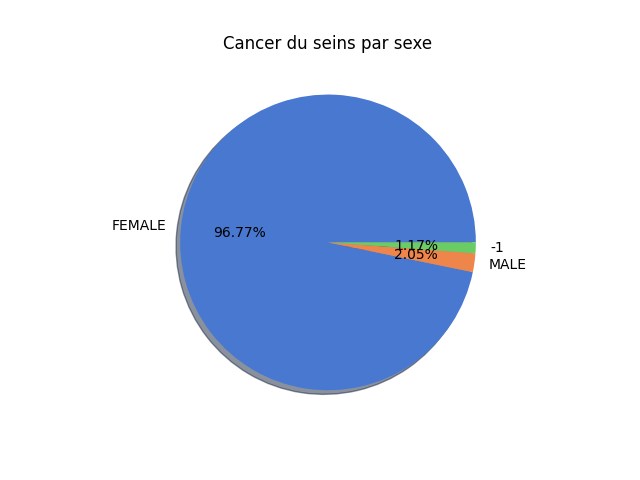
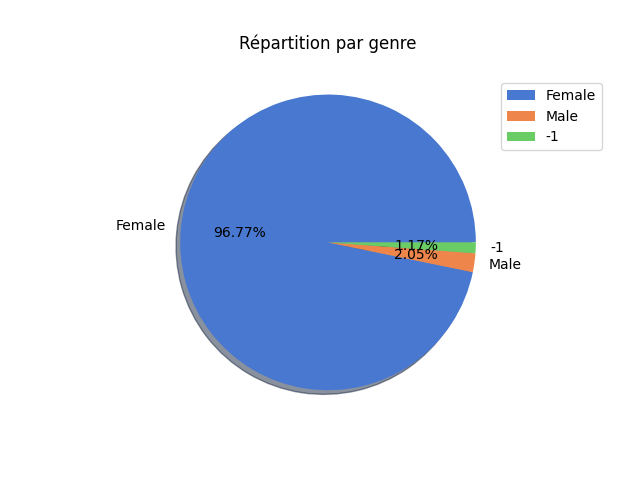
death, age slice, last visit and histology plot

diff --git a/breast-cancer.py b/breast-cancer.py
@@ -10,19 +10,63 @@ DELIMITER = ","
 # FILTERED_HEADERS = ['']
 # MISSING_VALUES = [-1]
 
-# pandas options
+# Pandas options
 pd.set_option('display.max_rows', 500)
 pd.set_option('display.max_columns', 500)
 pd.set_option('display.width', 1000)
 
 
 def gender_plot_pie(data, labels):
-    data = data
     colors = sns.color_palette('muted')
-    plt.title('Cancer du seins par sexe')
+    plt.title('Répartition par genre')
     plt.pie(data, colors=colors, labels=labels, autopct='%.2f%%', shadow=True)
+    plt.legend(bbox_to_anchor=(0.95, 0.95), ncol=1)
     plt.savefig('savefig/gender_plot_pie.png')
-    
+
+    plt.show()
+
+
+def slice_age_histo(data):
+    plt.subplots(figsize=(20, 10))
+    plt.title('Tranche d\'âge')
+    plt.hist([i for i in data.values.ravel().tolist() if i != -1], bins=10, color='skyblue')
+
+    plt.xlabel("Age")
+    plt.ylabel("Nombre de personne")
+    plt.savefig('savefig/slice_age_histo.png')
+    plt.show()
+
+
+def death_by_tumour_stage(df):
+    sns.set(font_scale=1.4)
+    df["Tumour_Stage"].value_counts().plot(kind='bar', figsize=(15, 10), rot=0)
+    plt.xlabel("Tumour_Stage", labelpad=14)
+    plt.ylabel("Patient_Status", labelpad=14)
+    plt.title("Nombre de morts par état du cancer", y=1.02)
+
+    plt.savefig('savefig/death_by_tumour_stage.png')
+    plt.show()
+
+
+def last_visit_count(data, year):
+    plt.subplots(figsize=(20, 10))
+    plt.title('Nombre de dernière visite par années')
+    plt.hist([i for i in data.values.ravel().tolist() if i != -1], bins=10)
+
+    plt.xlabel("Année")
+    plt.ylabel("Nombre de personne")
+    plt.savefig(f'savefig/last_visit_count_{year}.png')
+    plt.show()
+
+
+def histology_plot_pie(data, labels):
+    plt.subplots(figsize=(20, 10))
+    colors = sns.color_palette('muted')
+    plt.title('Répartition par type de cancer')
+    plt.pie(data, colors=colors, labels=labels, autopct='%.1f%%', shadow=True)
+    plt.legend(bbox_to_anchor=(0.95, 0.95), ncol=1)
+    plt.savefig('savefig/histology_plot_pie.png')
+
     plt.show()
 
 
@@ -31,6 +75,8 @@ if __name__ == "__main__":
     breast_data_df = pd.read_csv(FILENAME, delimiter=DELIMITER)
     # Drop undesirable columns
     breast_data_df = breast_data_df.drop(columns=['Protein1', 'Protein2', 'Protein3', 'Protein4'])
+    # Uppercases only first letters
+    breast_data_df.Gender = breast_data_df.Gender.str.capitalize()
     # Remove NaN values
     breast_data_df = breast_data_df.replace(np.nan, -1)
     # Convert `Age` to int
@@ -51,3 +97,30 @@ if __name__ == "__main__":
     data = breast_data_df['Gender'].value_counts()
     labels = breast_data_df['Gender'].unique()
     gender_plot_pie(data, labels)
+
+    # Slice Age Histogramme
+    print(breast_data_df['Age'].values.ravel().tolist())
+    slice_age_histo(breast_data_df['Age'])
+
+    # Number of deaths according to tumor stage
+    # Replace '-1' by 'Unknown'
+    breast_data_df['Tumour_Stage'] = breast_data_df['Tumour_Stage'].replace(-1, 'Unknown')
+    breast_data_df['Patient_Status'] = breast_data_df['Patient_Status'].replace(-1, 'Unknown')
+
+    # We recover only data from deceased patients
+    dead_patients_df = breast_data_df.query('Patient_Status == "Dead"')
+    print(dead_patients_df)
+    death_by_tumour_stage(dead_patients_df)
+
+    # Number of last visits per year
+    year = 2019
+    breast_data_df['year_month'] = breast_data_df['Date_of_Last_Visit'].dt.strftime(f'%m/{year}')
+    print(breast_data_df['year_month'].unique())
+    data = breast_data_df['year_month'].sort_values()
+
+    last_visit_count(data, year)
+
+    # Gender Plot Pie
+    data = breast_data_df['Histology'].value_counts()
+    labels = breast_data_df['Histology'].unique()
+    histology_plot_pie(data, labels)
